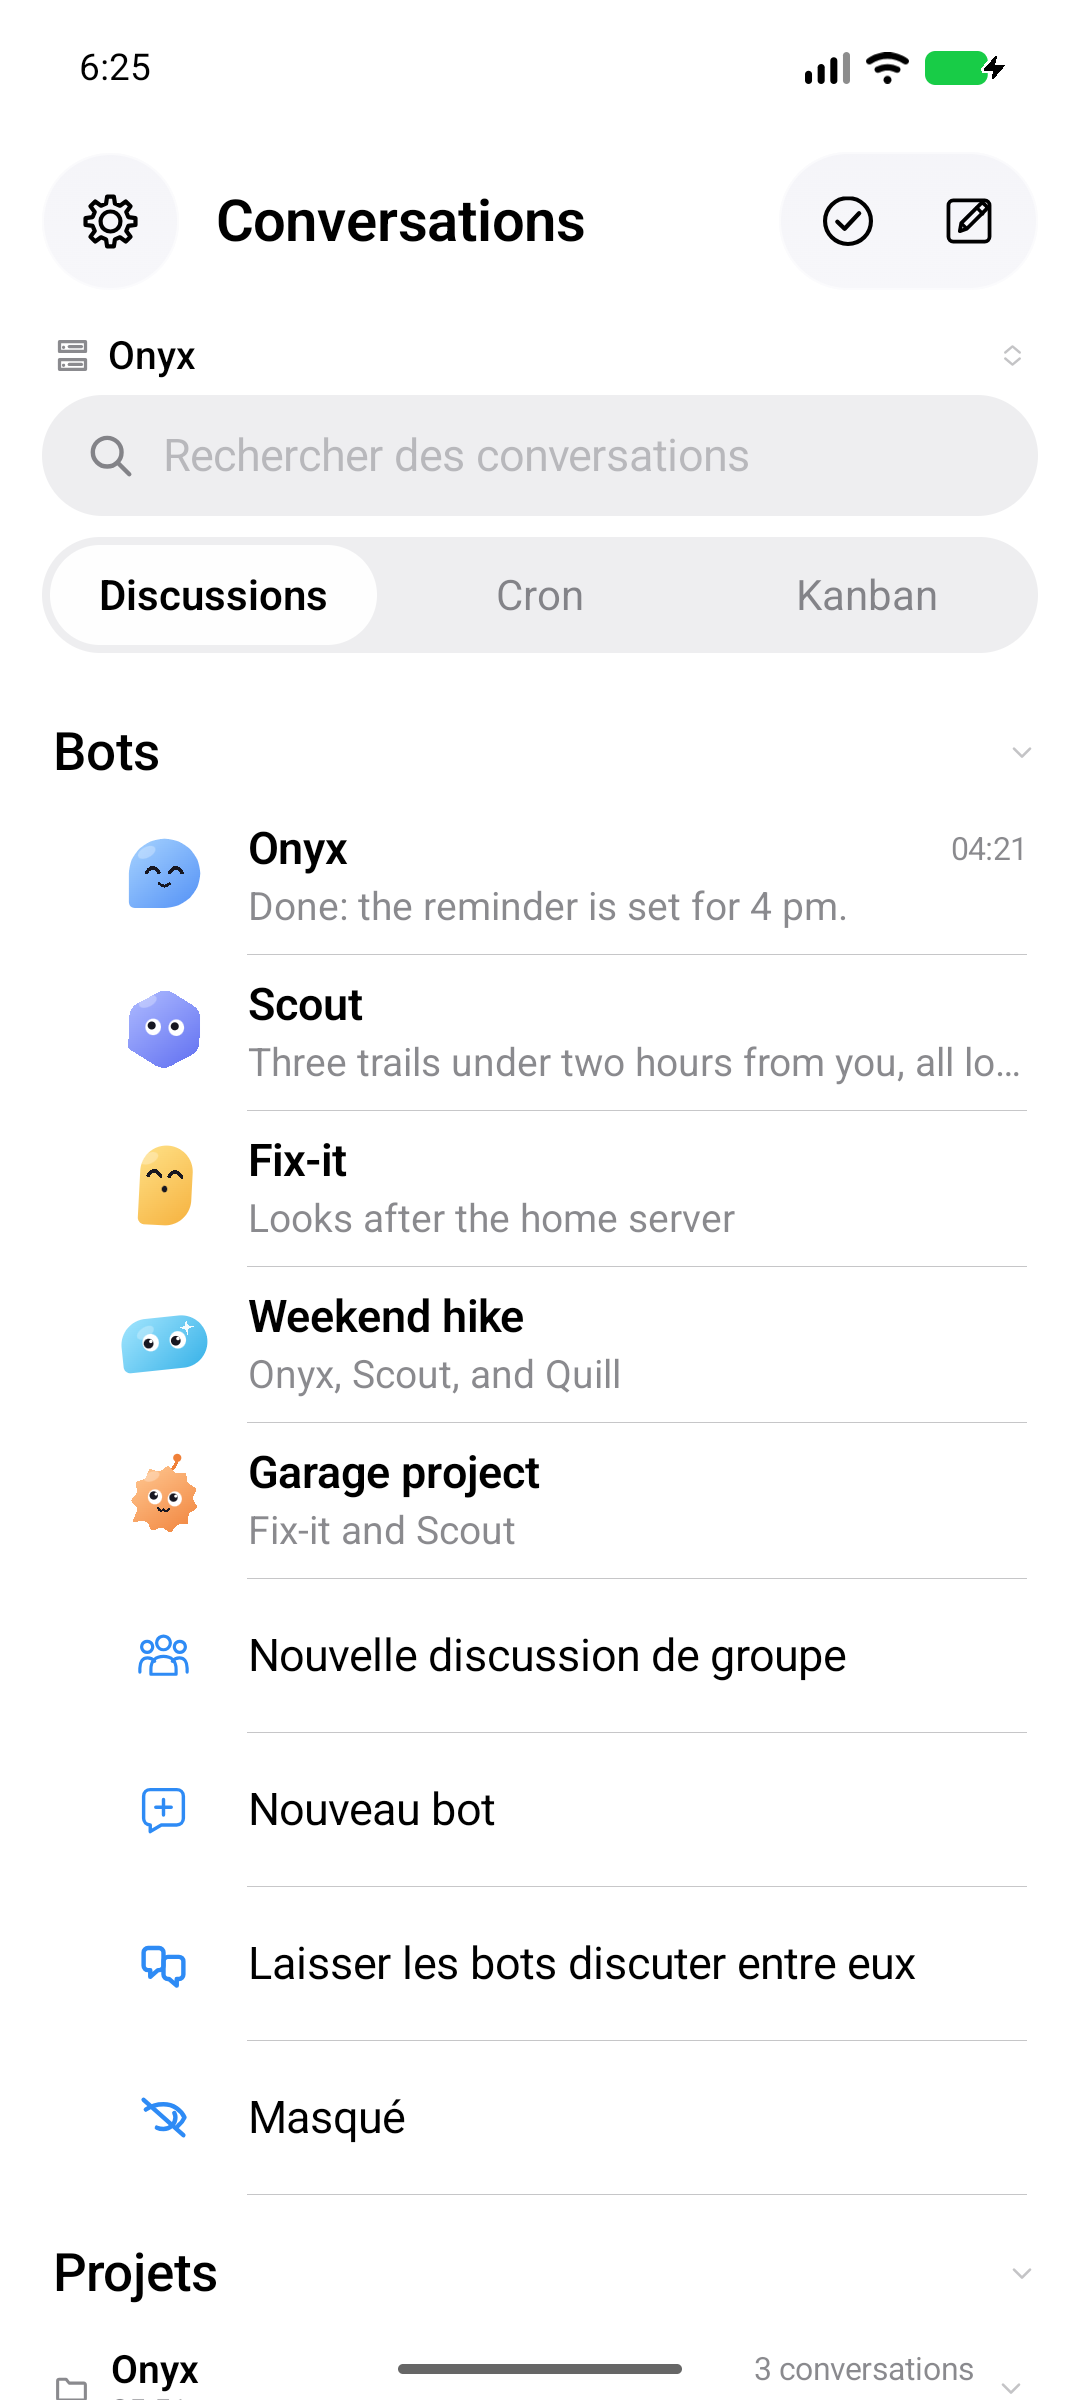
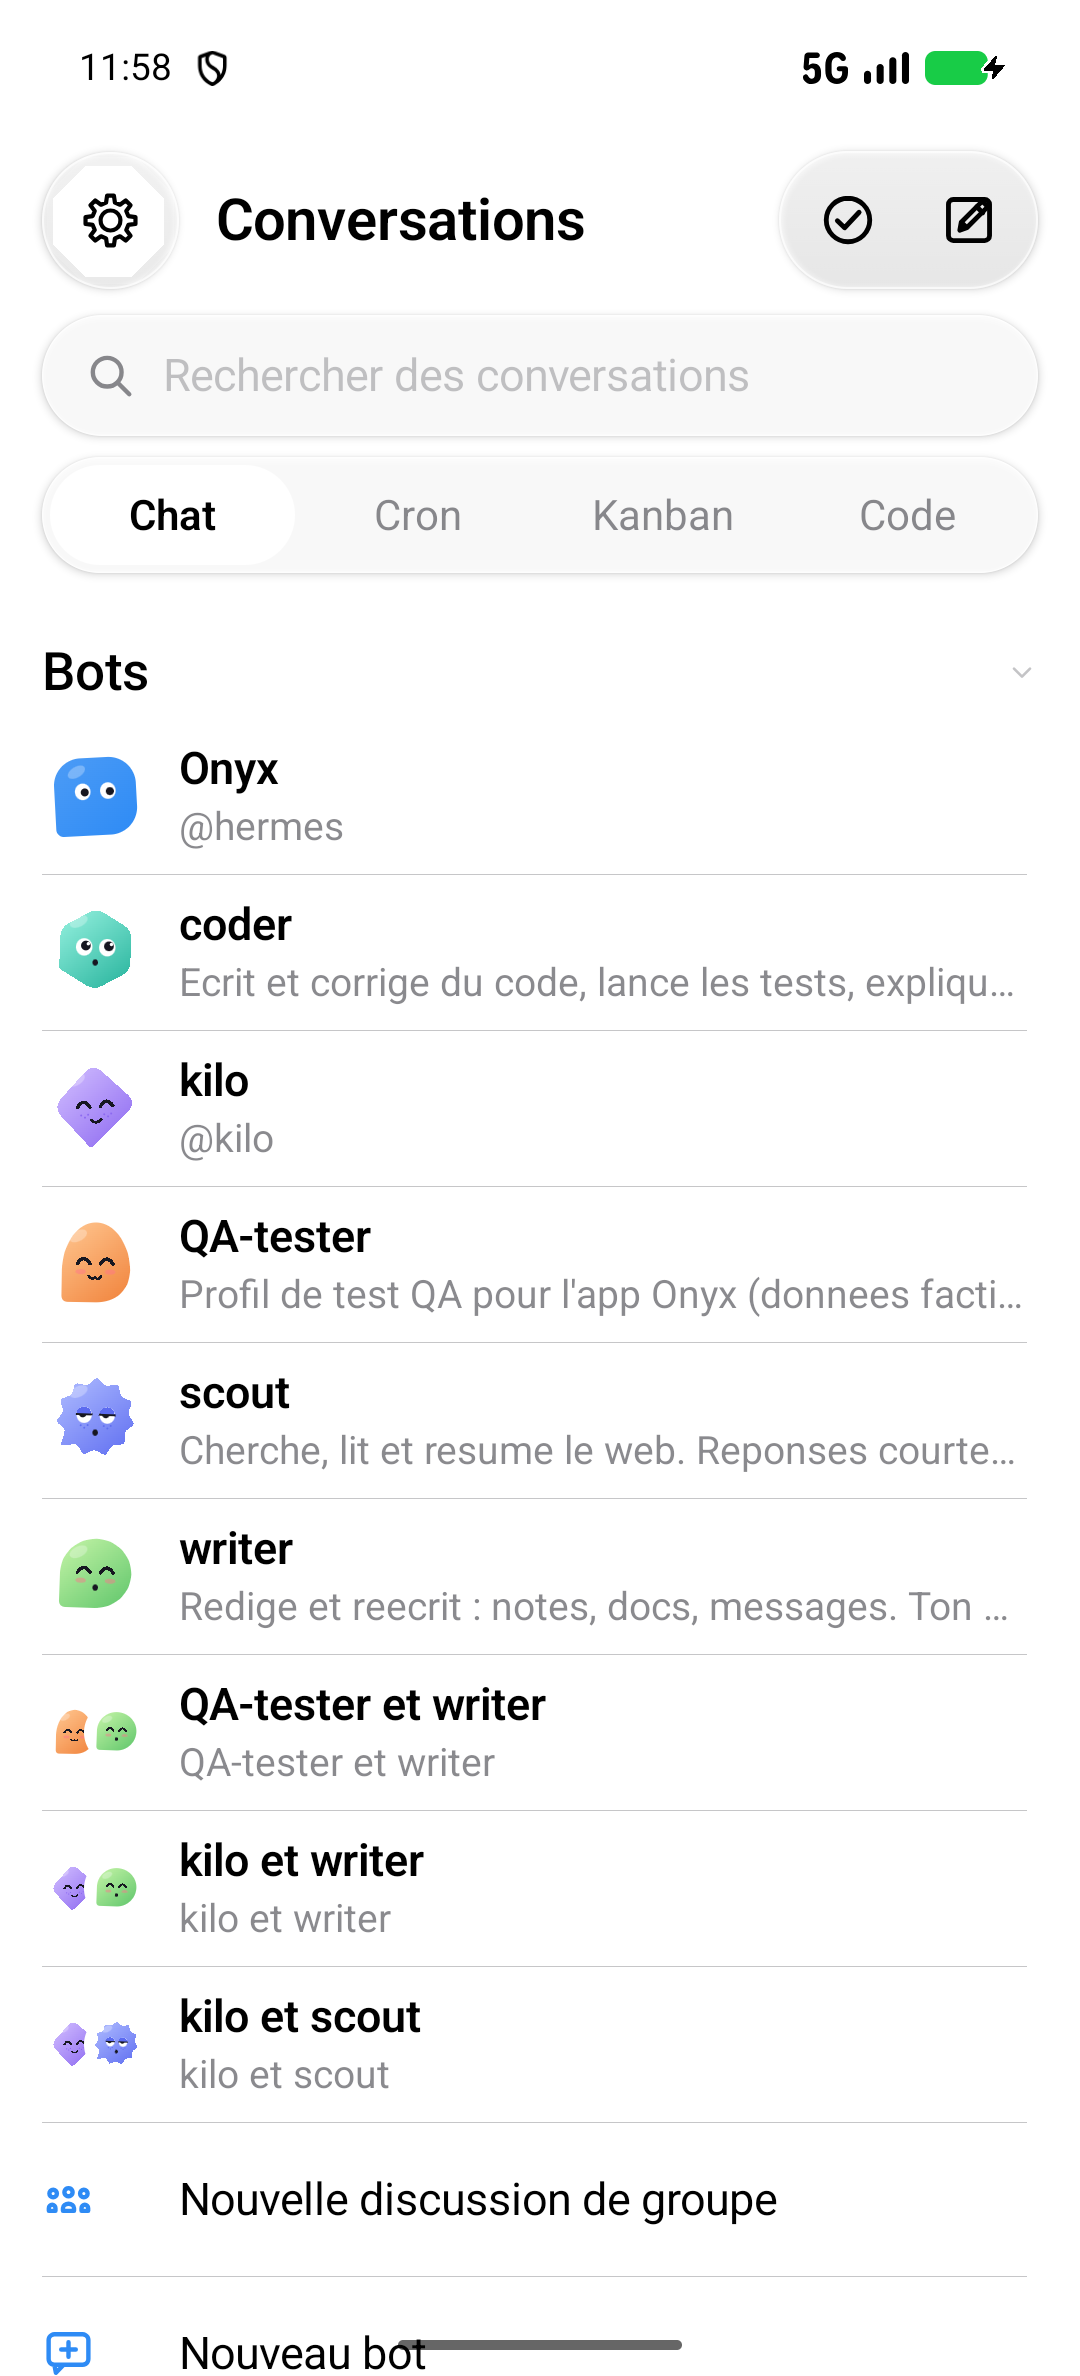
Hermes Onyx 1.0.0+423 — README, screenshots and one file name
README: badges refreshed (1.0.0+423, 1683 tests), the feature list now covers the five
conversation tabs (Chat, Feed, Files, Ideas, Goals), the Code tab with its branch and status,
hands-free voice and rooms that take their turn, the computer's reconnection, live stream
numbers and adaptive quality, the all-in-one key and the System language; the install table
names the three 1.0.0+423 APKs and points at SHA256SUMS.

docs/screenshots: seven screenshots taken on the 1.0.0+423 build, replacing the earlier set
that still showed the previous appearance.

core: rename a unit-test file whose name still carried the old platform word — the class
inside had already been renamed.

diff --git a/README.md b/README.md
@@ -7,17 +7,17 @@ Bots with faces, rooms where they answer each other, hands-free voice — and yo
 
 [![Kotlin](https://img.shields.io/badge/Kotlin-2.1.20-7F52FF?logo=kotlin&logoColor=white)](https://kotlinlang.org)
 [![Android](https://img.shields.io/badge/Android-8.0%2B%20(API%2026)-3DDC84?logo=android&logoColor=white)](#requirements)
-[![Tests](https://img.shields.io/badge/tests-1198%20passing-brightgreen)](#tests)
+[![Tests](https://img.shields.io/badge/tests-1683%20passing-brightgreen)](#tests)
 [![Build](https://github.com/JemaOS/hermes-onyx/actions/workflows/build.yml/badge.svg)](https://github.com/JemaOS/hermes-onyx/actions/workflows/build.yml)
 [![Release](https://img.shields.io/github/v/release/JemaOS/hermes-onyx?sort=semver&color=blue)](https://github.com/JemaOS/hermes-onyx/releases/latest)
 [![License](https://img.shields.io/badge/license-MIT-blue)](LICENSE)
 
 <p>
-  <img src="docs/screenshots/conversations.png" width="19%" alt="Conversations, bots and group rooms" />
-  <img src="docs/screenshots/group-room-answering.png" width="19%" alt="Three bots answering in a group room" />
+  <img src="docs/screenshots/conversations.png" width="19%" alt="Conversations, bots and rooms" />
+  <img src="docs/screenshots/conversation-feed.png" width="19%" alt="The Feed tab of a conversation" />
   <img src="docs/screenshots/voice-hands-free.png" width="19%" alt="Hands-free voice, listening" />
-  <img src="docs/screenshots/cron-jobs.png" width="19%" alt="Scheduled jobs" />
-  <img src="docs/screenshots/bot-roster.png" width="19%" alt="The bot roster" />
+  <img src="docs/screenshots/code-sessions.png" width="19%" alt="Code sessions, with branch and status" />
+  <img src="docs/screenshots/conversation-goals.png" width="19%" alt="Goals, kept on the phone" />
 </p>
 
 </div>
@@ -34,58 +34,91 @@ phone without handing your prompts to a third party, this is that app.
 
 ## Features
 
-**Conversations and rooms**
+**A conversation, five tabs deep**
 
-- **Bots, side by side** — every profile on your server with its own face, prompt, toolset, schedules and
-  voice. Create one, edit it, hide it, reorder them.
-- **Group rooms** — pick the members, then let them talk to each other while you watch, answer, approve or
-  interrupt.
+- **Five tabs in every conversation** — **Chat**, **Feed**, **Files**, **Ideas** and **Goals** sit in a
+  bar at the bottom of the thread. The Feed collects the bot's answers as dated cards you can rate,
+  discuss or turn into a goal; Files holds what the bot delivered and what you attached; Ideas and
+  Goals stay on the phone, grouped by category.
 - **Streaming answers** over SSE: reasoning folded away, tool calls, approval cards, follow-up questions
   you send with one tap, "jump to latest", and an error banner that tells you what the server said.
 - **Rich Markdown** — tables, code with copy, maths with KaTeX, diagrams with mermaid, link previews, image
   and video viewers, text selection across messages.
 
+**Bots and rooms**
+
+- **Bots, side by side** — every profile on your server with its own face, prompt, toolset, schedules and
+  voice. Create one, edit it, hide it, reorder them.
+- **Rooms** — pick the members, then let them talk to each other while you watch, answer, approve or
+  interrupt.
+
+**Code**
+
+- **A Code tab** — the code sessions you have started, filtered **All / In progress / Yours / Ready**,
+  each row carrying its branch and status. The repository, the worktree and the branch are read back
+  from the server, never guessed; a session's status is the state of the real turn that started it, and
+  a failure shows the transport error as it came.
+
 **Voice**
 
 - **Hands-free with real turn-taking** — barge-in, back-channel words, spoken stop phrases, and a large
   speaking face that follows the level of the voice.
+- **Rooms that take their turn** — in a voice room, one question goes out and the bots answer **one
+  after another**, each read in its own voice; when nobody answers, the app says so instead of leaving
+  you in front of a silent face.
 - **A voice per bot** — each one speaks with its own installed voice, in a room as well as solo.
 - **Two languages at once** — speech and reply language are chosen separately, so you can talk French and
   be answered in English.
+
+**Your computer**
+
+- **Computer** — see your machine's screen and drive it by touch, with an approval gate before any command
+  runs. When the picture stops updating, the app reconnects by itself and picks the session back up.
+- **Live numbers** — round-trip, jitter, frames per second, dropped and missed frames, bandwidth — so you
+  can tell a slow link from a stopped one.
+- **Adaptive quality** — the stream steps down through a quality ladder, with a floor below which the
+  image would stop being readable.
 
 **The rest of your server**
 
 - **Kanban, Cron, Files, Terminal, Skills, Models, Tools, Servers, Logs** — the board, the schedules, the
   server's files, an SSH terminal, all from the phone.
-- **Computer** — see your machine's screen and drive it by touch, with an approval gate before any command
-  runs.
+- **One key** — the all-in-one link puts the Dashboard and the chat at the **same address** behind a
+  **single key**: no user name, no password to retype, and the bots, the rooms and the live stream arrive
+  the way chat does.
 - **Sub-agents** — when an agent fans its work out, the children appear as a task list with their own
   transcript and a stop button.
 - **Small courtesies** — a widget, notifications, a lock screen, light and dark themes with several
-  palettes, and an interface in English or French.
+  palettes, and an interface in **English or French** — or **System**, which follows the phone and is
+  what you get until you choose otherwise.
 
 ## Screenshots
 
-| Group room, listening | Sub-agent task list | Sub-agent transcript | Bot roster |
+| Chat | Feed | Ideas | Code sessions |
 |:---:|:---:|:---:|:---:|
-| <img src="docs/screenshots/group-room-listening.png" width="100%"> | <img src="docs/screenshots/subagent-tasks.png" width="100%"> | <img src="docs/screenshots/subagent-transcript.png" width="100%"> | <img src="docs/screenshots/bot-roster.png" width="100%"> |
+| <img src="docs/screenshots/conversation-chat.png" width="100%"> | <img src="docs/screenshots/conversation-feed.png" width="100%"> | <img src="docs/screenshots/conversation-ideas.png" width="100%"> | <img src="docs/screenshots/code-sessions.png" width="100%"> |
 
-Every screenshot in this README was taken on an emulator against a test server holding demo data — no
-real machine, no real conversation, no token.
+The bot roster in the first picture is a real one: the app lists the profiles your server exposes, so a
+profile called `QA-tester` appears under that name.
+
+Every screenshot in this README was taken on an emulator, with the **1.0.0+423** build, against a test
+server holding demo data — no real machine, no real conversation, no token.
 
 ## Install
 
-The signed APKs are on the [v1.0.0 release](https://github.com/JemaOS/hermes-onyx/releases/latest) page.
-Three applications, one signing key:
+The signed APKs are on the [latest release](https://github.com/JemaOS/hermes-onyx/releases/latest) page.
+Three applications, one signing key, built from one code base:
 
 | File | Runs on | What it is |
 |---|---|---|
-| `hermes-onyx-1.0.0+341.apk` | Phone, Android 8.0+ | The app: chat, conversations, voice, servers, kanban, cron, files, terminal, widget. |
-| `hermes-onyx-wear-1.0.0+341.apk` | Wear OS 3+ | The watch: ask, read, listen. Plus a tile. |
-| `hermes-onyx-auto-1.0.0+341.apk` | Android Auto | The car: ask, read aloud. |
+| `Hermes-Onyx-1.0.0+423-telephone.apk` | Phone, Android 8.0+ | The app: chat and its five tabs, bots, rooms, voice, code, computer, servers, kanban, cron, files, terminal, widget. |
+| `Hermes-Onyx-1.0.0+423-auto.apk` | Android Auto | The car: an "Ask" screen that streams the answer into a message card and reads it aloud. |
+| `Hermes-Onyx-1.0.0+423-wear.apk` | Wear OS 3+ (API 30) | The watch: a large microphone button, a live oscillogram, five states, and an "Ask Onyx" tile. |
+
+The three names above are the exact asset names on the release. Each release also carries a
+`SHA256SUMS` file with the SHA-256 of the three APKs — check your download against it:
 
 ```bash
-# Check the download against the hashes published with the release.
 curl -LO https://github.com/JemaOS/hermes-onyx/releases/latest/download/SHA256SUMS
 sha256sum -c SHA256SUMS
 ```
@@ -115,6 +148,7 @@ hermes-onyx/
 ├── auto/    an Android Auto companion — ask screen
 ├── design/  source SVGs for the icons and the speaking orbs
 ├── scripts/ release archiving, orb rendering, gateway proxy
+├── tools/   the computer bridge, icon tooling
 └── docs/    the screenshots used by this README
 ```
 
@@ -145,7 +179,7 @@ ever goes up and an APK installs over the previous one.
 ./gradlew :core:testDebugUnitTest :app:testDebugUnitTest
 ```
 
-**1198 tests, 0 failures** — 547 in `:core`, 651 in `:app`, across 198 test classes. Plain JUnit 4, no
+**1683 tests, 0 failures** — 791 in `:core`, 892 in `:app`, across 260 test classes. Plain JUnit 4, no
 emulator: networking runs against an in-memory MockWebServer, so the recipe works offline and takes about
 two minutes. CI runs the same command on every push.
 
